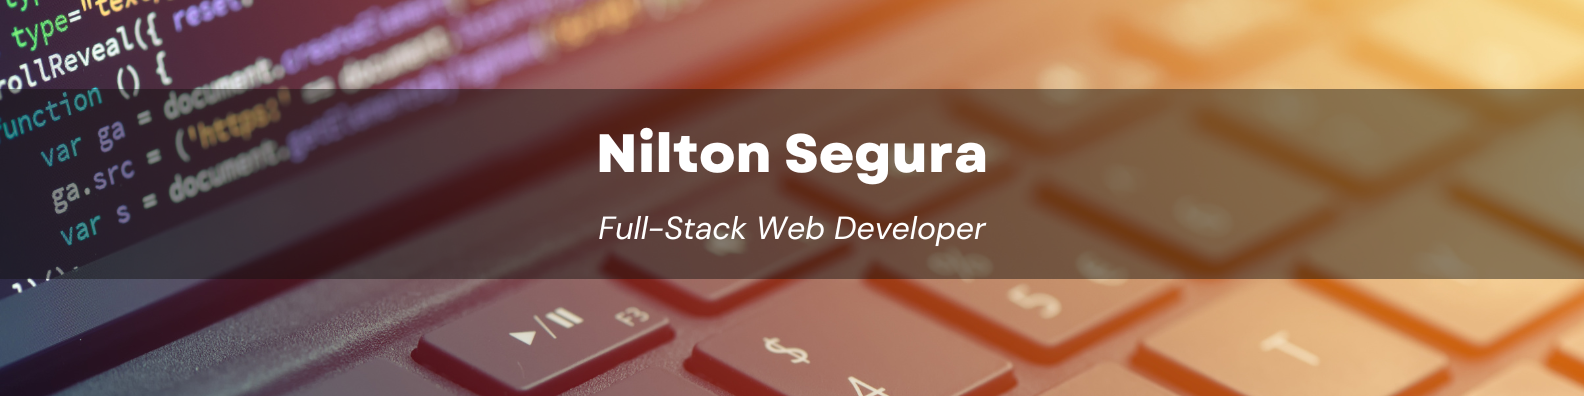
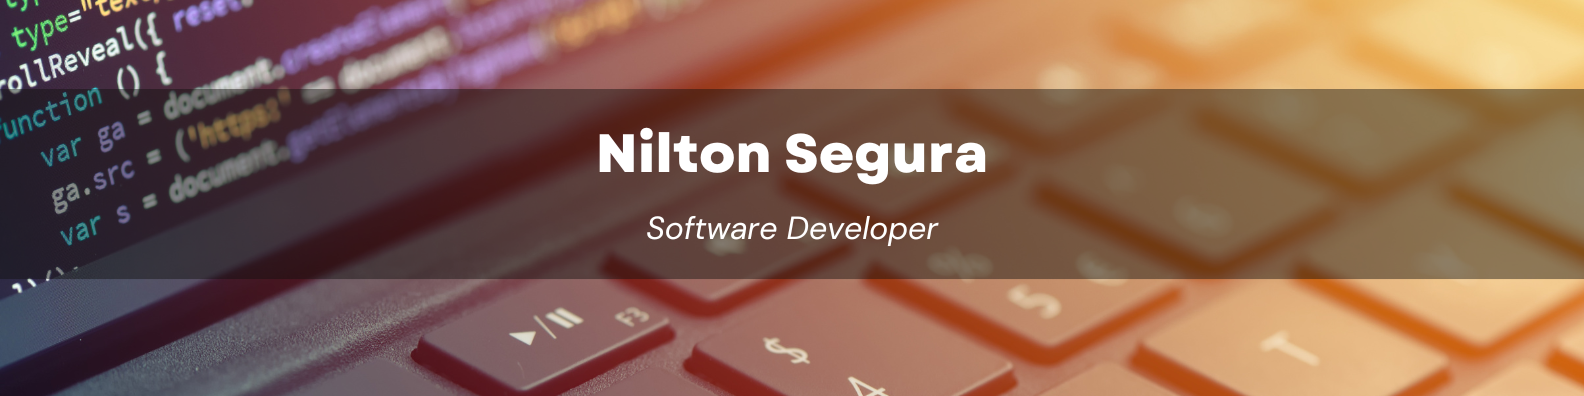
Update readme data

Changed region(s): [[0.3712, 0.5455, 0.6187, 0.6061]]

diff --git a/README.md b/README.md
@@ -1,6 +1,6 @@
 <img src="/header2.png" alt="banner that says Nilton Segura - software developer">
 
-### <div align="center">Certified Full Stack web developer👨💻.🚀 I have Expertise in Creating responsive and user-friendly web applications.</div> 
+### <div align="center">Application Support Engineer | Ruby on Rails & React. Dedicated to maintaining mission-critical systems and ensuring data accuracy.🛠✨</div> 
 
 - 🌱 I’m currently learning Next.js and NestJS.
 - 🛠 Now Working on [AI Chat with local Ollama](https://github.com/Nkaleth/oracle_ai_front).   
